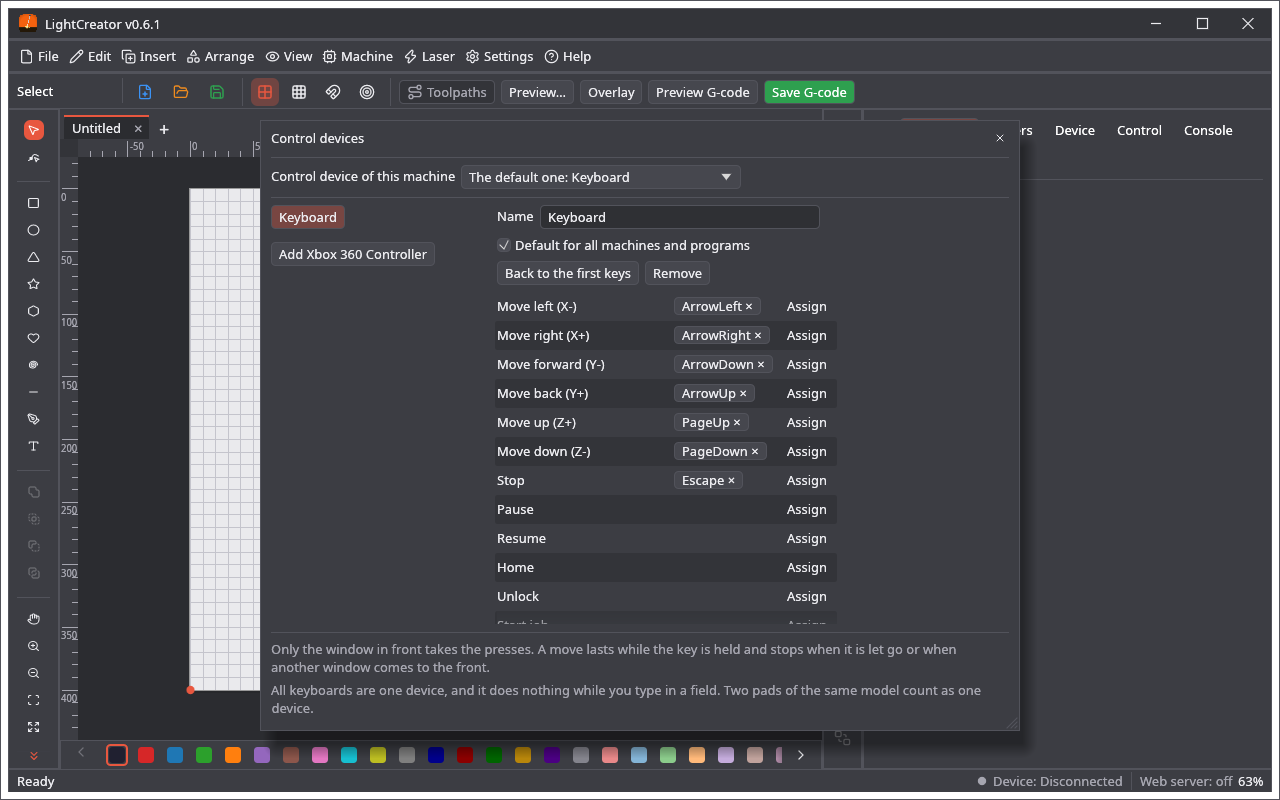
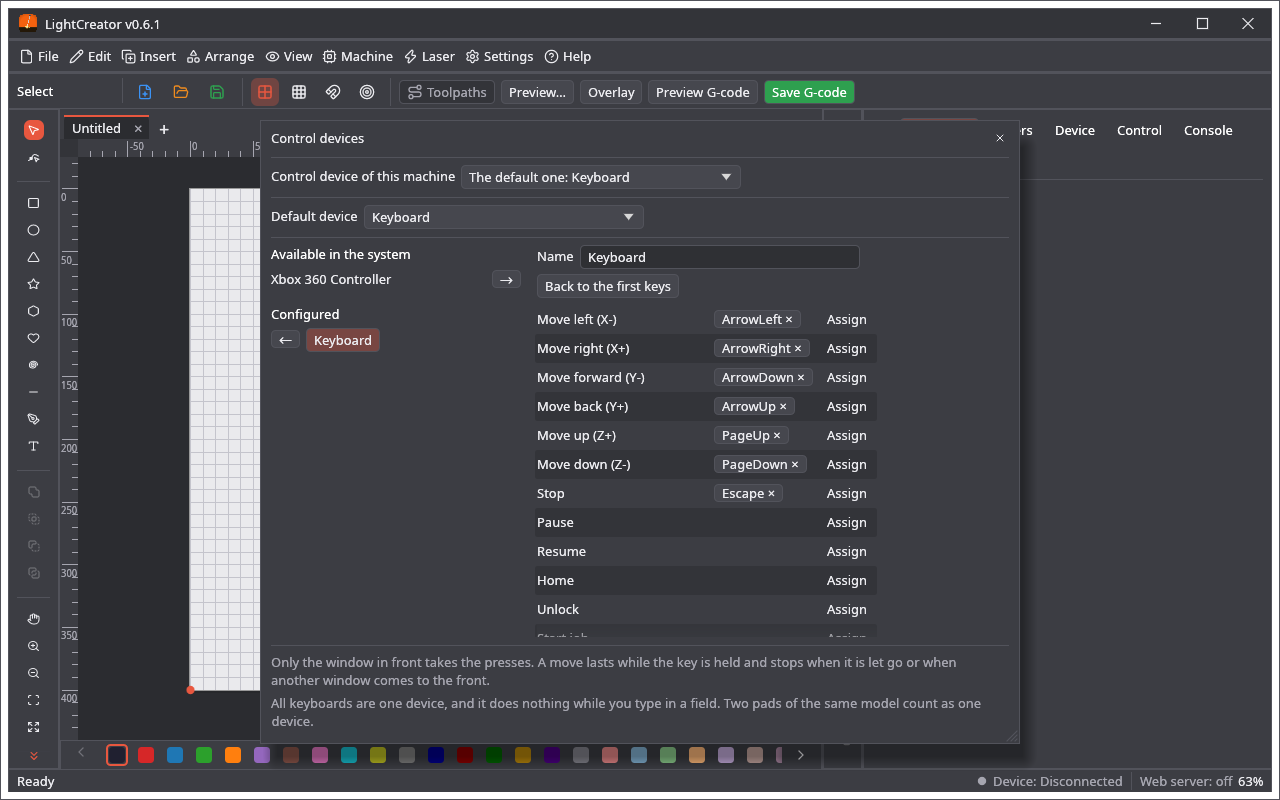
Shared camera page, cameras of the computer in the builds, copyable messages; pin base v1.69.5

Changed region(s): [[0.1875, 0.25, 0.8125, 0.9688], [0.1875, 0.25, 0.3438, 0.4375]]

diff --git a/crates/lightcreator/src/device_ui.rs b/crates/lightcreator/src/device_ui.rs
@@ -757,126 +757,7 @@ impl App {
                             ui.end_row();
                         });
                     }
-                    CfgPage::Camera => {
-                        ui.label(RichText::new(tr("Cameras that watch the machine. The one that is ticked gives the live picture; ticking another switches the first off.")).color(theme::text_dim()));
-                        let mut remove = None;
-                        let mut toggle: Option<(usize, bool)> = None;
-                        let n = d.cameras.len();
-                        for i in 0..n {
-                            let active = d.active_camera == i;
-                            let c = &mut d.cameras[i];
-                            egui::Frame::group(ui.style()).show(ui, |ui| {
-                                ui.horizontal_wrapped(|ui| {
-                                    // The tick before the name switches this camera on (and the others off): it is the one in use.
-                                    let mut on = active && c.enabled;
-                                    if ui.checkbox(&mut on, "").on_hover_text(tr("Switch this camera on: it gives the live picture")).changed() {
-                                        toggle = Some((i, on));
-                                    }
-                                    ui.add(egui::TextEdit::singleline(&mut c.name).hint_text(tr("Camera name")).desired_width(150.0));
-                                    if crate::window_ui::delete_icon(ui, &tr("Delete this camera")).clicked() {
-                                        remove = Some(i);
-                                    }
-                                });
-                                ui.horizontal_wrapped(|ui| {
-                                    let local = matches!(c.kind, lc_core::CameraKind::Local(_));
-                                    let mut want_local = local;
-                                    ui.radio_value(&mut want_local, false, tr("Address"));
-                                    ui.radio_value(&mut want_local, true, tr("Camera of this computer"));
-                                    if want_local != local {
-                                        c.kind = if want_local { lc_core::CameraKind::Local(0) } else { lc_core::CameraKind::Url(String::new()) };
-                                        if !want_local {
-                                            c.enabled = false;
-                                        }
-                                    }
-                                });
-                                match &mut c.kind {
-                                    lc_core::CameraKind::Url(u) => {
-                                        ui.add(egui::TextEdit::singleline(u).hint_text("http://raspberrypi.local:8080/stream.mjpg").desired_width(300.0)).on_hover_text(tr("Live picture of the machine: an MJPEG stream, a JPEG snapshot address (http or https), or a stream that ffmpeg reads (rtsp, udp, rtp, rtmp)."));
-                                        if !lc_core::camimg::valid_url(u) && !u.trim().is_empty() {
-                                            ui.label(RichText::new(tr("Not a camera address (http, https, rtsp, udp, rtp or rtmp).")).color(Color32::from_rgb(0xc0, 0x30, 0x30)));
-                                        }
-                                    }
-                                    lc_core::CameraKind::Local(i) => {
-                                        if crate::camera::SUPPORTED {
-                                            ui.horizontal(|ui| {
-                                                ui.label(tr("Camera number"));
-                                                ui.add(egui::DragValue::new(i).range(0..=15));
-                                            });
-                                        } else {
-                                            ui.label(RichText::new(tr("This build has no camera support. Build with: cargo run --release --features camera")).color(theme::text_dim()));
-                                        }
-                                    }
-                                }
-                                base_ui::camera_feed::stream_options_ui(ui, c);
-                                let testable = match &c.kind {
-                                    lc_core::CameraKind::Url(u) => lc_core::camimg::valid_url(u),
-                                    lc_core::CameraKind::Local(_) => crate::camera::SUPPORTED,
-                                };
-                                if ui.add_enabled(testable, egui::Button::new(tr("Test"))).on_hover_text(tr("Opens the picture of this camera as set here, without saving")).clicked() {
-                                    test_cam = Some(c.clone());
-                                }
-                                ui.horizontal(|ui| {
-                                    ui.label(tr("Camera rotation"));
-                                    for q in 0..4u8 {
-                                        ui.selectable_value(&mut c.rotation, q, format!("{}°", q as u32 * 90));
-                                    }
-                                });
-                                egui::CollapsingHeader::new(tr("Picture")).id_salt(("cam_img", i)).show(ui, |ui| {
-                                    egui::Grid::new(("cam_img_grid", i)).num_columns(2).spacing([12.0, 4.0]).show(ui, |ui| {
-                                        ui.label(tr("Brightness"));
-                                        ui.add(egui::Slider::new(&mut c.image.brightness, -100..=100));
-                                        ui.end_row();
-                                        ui.label(tr("Contrast"));
-                                        ui.add(egui::Slider::new(&mut c.image.contrast, 0..=100));
-                                        ui.end_row();
-                                        ui.label(tr("White balance"));
-                                        ui.horizontal(|ui| {
-                                            let mut auto = c.image.white_balance.is_none();
-                                            if ui.checkbox(&mut auto, tr("Auto")).changed() {
-                                                c.image.white_balance = if auto { None } else { Some(6500) };
-                                            }
-                                            if let Some(k) = &mut c.image.white_balance {
-                                                ui.add(egui::DragValue::new(k).range(2500..=10_000).speed(50.0).suffix(" K"));
-                                            }
-                                        });
-                                        ui.end_row();
-                                        ui.label(tr("Noise reduction"));
-                                        ui.add(egui::Slider::new(&mut c.image.denoise, 0.0..=0.95));
-                                        ui.end_row();
-                                        ui.label(tr("Format"));
-                                        ui.checkbox(&mut c.image.prefer_yuyv, tr("Prefer YUYV")).on_hover_text(tr("For a camera of this computer: ask for the uncompressed YUYV format where the system allows it."));
-                                        ui.end_row();
-                                    });
-                                });
-                                egui::CollapsingHeader::new(tr("Lens correction")).id_salt(("cam_lens", i)).show(ui, |ui| {
-                                    ui.label(RichText::new(tr("Coefficients of the lens distortion (radial k1–k3, tangential p1, p2) for coordinates measured from the centre in units of the longer side of the picture. All 0 = no correction. Entered by hand: there is no automatic calibration.")).color(theme::text_dim()));
-                                    ui.horizontal_wrapped(|ui| {
-                                        for (name, v) in [("k1", &mut c.lens.k1), ("k2", &mut c.lens.k2), ("k3", &mut c.lens.k3), ("p1", &mut c.lens.p1), ("p2", &mut c.lens.p2)] {
-                                            ui.label(name);
-                                            ui.add(egui::DragValue::new(v).speed(0.001).range(-5.0..=5.0).max_decimals(4));
-                                        }
-                                        if ui.small_button(tr("Reset")).clicked() {
-                                            c.lens = lc_core::Lens::default();
-                                        }
-                                    });
-                                });
-                            });
-                        }
-                        if let Some((i, on)) = toggle {
-                            if on {
-                                d.activate_camera(i);
-                            } else if let Some(c) = d.cameras.get_mut(i) {
-                                c.enabled = false;
-                            }
-                        }
-                        if let Some(i) = remove {
-                            d.cameras.remove(i);
-                            d.active_camera = d.active_camera.min(d.cameras.len().saturating_sub(1));
-                        }
-                        if d.cameras.len() < 8 && ui.button(tr("Add a camera")).clicked() {
-                            add_camera(d);
-                        }
-                    }
+                    CfgPage::Camera => base_ui::camera_feed::camera_page(ui, &mut d.cameras, &mut d.active_camera, &mut test_cam),
                     CfgPage::Rotary => {
                         let grbl = d.dialect().is_grbl();
                         ui.checkbox(&mut d.rotary.enabled, tr("A rotary attachment is connected"));

diff --git a/crates/lightcreator/src/cam_test_ui.rs b/crates/lightcreator/src/cam_test_ui.rs
@@ -1,74 +1,8 @@
-//! The "Test" button of a camera in the device settings: opens its stream in a small window, with the rotation, picture
-//! settings and lens correction of that camera as they are being edited, without changing the saved device.
+//! The "Test" button of a camera in the device settings: the window is the shared one.
 use crate::app::App;
-use crate::camera::{self, rotate_rgb};
-use crate::camera_stream::{self, Msg};
-use crate::i18n::{tr, trf};
-use eframe::egui::{self, Color32, RichText};
-use lc_core::{CameraKind, CameraSource};
-
-enum Source {
-    Url(camera_stream::StreamWorker),
-    Local(camera::Worker),
-}
-
-pub struct CamTest {
-    cam: CameraSource,
-    src: Source,
-    tex: Option<egui::TextureHandle>,
-    err: String,
-}
-
-impl CamTest {
-    fn start(cam: CameraSource, ctx: &egui::Context) -> Option<CamTest> {
-        let src = match &cam.kind {
-            CameraKind::Url(u) if lc_core::camimg::valid_url(u) => Source::Url(camera_stream::spawn(u.trim().to_string(), ctx.clone())),
-            CameraKind::Local(i) if camera::SUPPORTED => Source::Local(camera::spawn(*i, cam.image.prefer_yuyv, ctx.clone())),
-            _ => return None,
-        };
-        Some(CamTest { cam, src, tex: None, err: String::new() })
-    }
-
-    /// Take the frames that have arrived and turn the newest into a texture.
-    fn poll(&mut self, ctx: &egui::Context) {
-        let mut latest = None;
-        match &self.src {
-            Source::Url(w) => {
-                while let Ok(m) = w.rx.try_recv() {
-                    match m {
-                        Msg::Frame(f) => {
-                            self.err.clear();
-                            latest = Some(f);
-                        }
-                        Msg::Error(e) => self.err = e,
-                    }
-                }
-            }
-            Source::Local(w) => {
-                while let Ok(m) = w.rx.try_recv() {
-                    match m {
-                        Ok(f) => {
-                            self.err.clear();
-                            latest = Some(f);
-                        }
-                        Err(e) => self.err = e,
-                    }
-                }
-            }
-        }
-        if let Some(f) = latest {
-            let (w, h) = (f.w as usize, f.h as usize);
-            let mut rgb = if self.cam.lens.is_none() { f.rgb } else { lc_core::camimg::undistort(&f.rgb, w, h, &self.cam.lens) };
-            lc_core::camimg::adjust(&mut rgb, w, h, &self.cam.image);
-            let (w, h, rgb) = rotate_rgb(&rgb, f.w, f.h, self.cam.rotation % 4);
-            let img = egui::ColorImage::from_rgb([w as usize, h as usize], &rgb);
-            match &mut self.tex {
-                Some(t) if t.size() == [w as usize, h as usize] => t.set(img, egui::TextureOptions::LINEAR),
-                _ => self.tex = Some(ctx.load_texture("camera-test", img, egui::TextureOptions::LINEAR)),
-            }
-        }
-    }
-}
+use base_ui::camera_feed::CamTest;
+use eframe::egui;
+use lc_core::CameraSource;
 
 impl App {
     /// Open (or restart) the test window for `cam`. Does nothing for a camera that cannot be opened.
@@ -77,31 +11,7 @@ impl App {
     }
 
     pub fn cam_test_window(&mut self, ctx: &egui::Context) {
-        let Some(mut t) = self.cam_test.take() else { return };
-        t.poll(ctx);
-        ctx.request_repaint_after(std::time::Duration::from_millis(100));
-        let mut open = true;
-        let title = trf("Camera test: {}", &[&t.cam.name]);
-        crate::window_ui::popup(ctx, "cam_test_window", &title, [480.0, 380.0], &mut open, |ui| match &t.tex {
-            Some(tex) => {
-                let sz = tex.size_vec2();
-                let k = (ui.available_width() / sz.x).min((ui.available_height() - 30.0).max(100.0) / sz.y).min(2.0);
-                ui.image((tex.id(), sz * k));
-            }
-            None => {
-                ui.add_space(30.0);
-                ui.label(tr("Waiting for the picture…"));
-                ui.add_space(30.0);
-            }
-        });
-        if !t.err.is_empty() {
-            egui::Area::new(egui::Id::unique("cam_test_err")).anchor(egui::Align2::CENTER_BOTTOM, [0.0, -8.0]).show(ctx, |ui| {
-                ui.label(RichText::new(trf("Stream error: {}", &[&t.err.replace(match &t.cam.kind { CameraKind::Url(u) => u.as_str(), _ => "-" }, "…")])).color(Color32::from_rgb(0xc0, 0x30, 0x30)));
-            });
-        }
-        if open {
-            self.cam_test = Some(t);
-        }
+        CamTest::window(ctx, &mut self.cam_test);
     }
 }
 
@@ -116,8 +26,5 @@ mod tests {
         assert!(CamTest::start(CameraSource::url("x", "rtsp://127.0.0.1:9/x", 0), &ctx).is_some(), "an RTSP stream is tried (through ffmpeg)");
         assert!(CamTest::start(CameraSource::url("x", "", 0), &ctx).is_none());
         assert!(CamTest::start(CameraSource::url("x", "http://127.0.0.1:9/none", 0), &ctx).is_some());
-        let mut local = CameraSource::url("x", "", 0);
-        local.kind = CameraKind::Local(0);
-        assert_eq!(CamTest::start(local, &ctx).is_some(), camera::SUPPORTED);
     }
 }

diff --git a/crates/lightcreator/src/screenshots.rs b/crates/lightcreator/src/screenshots.rs
@@ -1623,6 +1623,41 @@ fn a_key_of_the_control_device_goes_to_the_machine_and_not_to_the_editor() {
     assert!(x(&mut h) < start, "no machine: the editor has it");
 }
 
+/// What is pasted into the address of a camera lands there: Cmd+V comes as the key and as the text, and the key must not paste shapes.
+#[test]
+fn an_address_can_be_pasted_into_the_field_of_a_camera() {
+    use eframe::egui::{self, Event, Key, Modifiers};
+    let mut h: Shot = Harness::builder().with_accessibility_check(false).with_size([1280.0, 800.0]).build_ui_state(
+        |ui, state: &mut Option<App>| {
+            let a = state.get_or_insert_with(|| App::build(ui.ctx(), None, false));
+            a.draw(ui);
+        },
+        None,
+    );
+    h.run_steps(2);
+    {
+        let a = h.state_mut().as_mut().unwrap();
+        let mut d = Device::default();
+        d.cameras = vec![lc_core::CameraSource::url("Cam", "", 0)];
+        a.profiles = vec![d];
+        a.enter_editor(0);
+        a.open_cfg_edit(0);
+        a.cfg.as_mut().unwrap().page = crate::device_ui::CfgPage::Camera;
+    }
+    h.run_steps(4);
+    h.get_all_by_role(egui::accesskit::Role::TextInput).last().unwrap().click();
+    h.run_steps(4);
+    let shapes = h.state_mut().as_mut().unwrap().doc.scene.shapes.len();
+    h.event(Event::Key { key: Key::V, physical_key: None, pressed: true, repeat: false, modifiers: Modifiers::COMMAND });
+    h.event(Event::Paste("http://10.10.0.18/cam_s9/stream".to_string()));
+    h.event(Event::Key { key: Key::V, physical_key: None, pressed: false, repeat: false, modifiers: Modifiers::COMMAND });
+    h.run_steps(4);
+    let a = h.state_mut().as_mut().unwrap();
+    assert_eq!(a.doc.scene.shapes.len(), shapes, "no shape is pasted");
+    let cam = &a.cfg.as_ref().unwrap().draft.cameras[0];
+    assert_eq!(cam.kind, lc_core::CameraKind::Url("http://10.10.0.18/cam_s9/stream".to_string()));
+}
+
 #[test]
 fn the_fonts_draw_every_symbol_of_the_program() {
     base_ui::tool_check::check_symbols(&std::path::Path::new(env!("CARGO_MANIFEST_DIR")).join("src"));

diff --git a/crates/lightcreator/src/app.rs b/crates/lightcreator/src/app.rs
@@ -186,7 +186,7 @@ pub struct App {
     pub show_stream: bool,
     pub ser2net: Option<crate::ser2net_ui::Ser2NetDlg>,
     pub print: Option<crate::print_ui::PrintDlg>,
-    pub cam_test: Option<crate::cam_test_ui::CamTest>,
+    pub cam_test: Option<base_ui::camera_feed::CamTest>,
     pub stream_mode: crate::stream_ui::StreamMode,
     pub tab_seen: bool,
     /// Rotation the current stream texture was made with.
@@ -1410,7 +1410,9 @@ impl App {
 
     fn do_app_act(&mut self, ctx: &egui::Context, a: Act) {
         if let Some(s) = a.std() {
-            s.run(self);
+            if !base_ui::menu::goes_to_text_field(ctx, s) {
+                s.run(self);
+            }
             return;
         }
         match a {
@@ -1591,7 +1593,7 @@ impl App {
 
     fn status_bar(&mut self, ui: &mut egui::Ui) {
         ui.horizontal_centered(|ui| {
-            ui.label(&self.status);
+            base_ui::widgets::message(ui, self.status.as_str());
             ui.with_layout(egui::Layout::right_to_left(egui::Align::Center), |ui| {
                 base_ui::editor::zoom_and_cursor(self, ui);
                 let web = if self.api.server.is_some() { (trf("Web server: on, port {}", &[&self.api.server.as_ref().map(|s| s.addr.port()).unwrap_or(0)]), Color32::from_rgb(0x2e, 0xa0, 0x4f)) } else if self.api_on { (tr("Web server: error").to_string(), Color32::from_rgb(0xc0, 0x30, 0x30)) } else { (tr("Web server: off").to_string(), theme::text_dim()) };

diff --git a/docs/wiki/Urzadzenia-i-sterowniki.md b/docs/wiki/Urzadzenia-i-sterowniki.md
@@ -128,3 +128,7 @@ Nieobsługiwane: automatyczna kalibracja obiektywu (planszy ChArUco, znaczniki, 
 * Pod obrazem widoku kamery: **Zrób zdjęcie** (Take a photo; JPEG), **Nagraj wideo** (Record video; w **Formacie wideo** wybranym wyżej; **Zatrzymaj nagrywanie** je kończy, a linia obok liczy sekundy) i **Poklatkowe** (Time-lapse): **Co** N sekund albo **Po każdej warstwie** (zdjęcie, gdy zaczyna się następna warstwa zadania i gdy zadanie się kończy; wymaga zadania wysłanego z programu na laser przyciskiem Start), uruchamiane przyciskiem **Uruchom poklatkowe** i kończone **Zatrzymaj poklatkowe**.
 * **Gdzie trafiają pliki.** Domyślnie do folderu `camera` **obok pliku projektu**. Gdy ten folder już jest (z wcześniejszej sesji), zamiast niego powstaje pierwszy wolny `camera00`, `camera01`…, i program używa go do końca działania. Nazwy plików zaczynają się od nazwy projektu: `box-photo-0001.jpg`, `box-video-0001.mp4` (albo `.avi`), a poklatkowe dostaje własny folder (`box-timelapse-0001`) z `box-frame-00001.jpg` albo `box-layer-00001.jpg`. Projekt, który nigdy nie był zapisany, nie ma folderu: jego pliki trafiają do folderu `camera` wspólnego folderu danych, bez nazwy z przodu. **Folder** pod przyciskami pokazuje, gdzie trafi następny plik; **Wybierz folder…** (Choose the folder…) ustawia zamiast tego jeden folder na wszystko (pamiętany dla wszystkich programów).
 * Nagrywanie trwa, gdy widok kamery jest zamknięty.
+
+## macOS: „No route to host”
+
+macOS nie dopuszcza programów do sieci lokalnej, dopóki ich nie zezwolisz, a nowo zbudowany lub zaktualizowany program może wymagać ponownej zgody. Jeśli sterownika albo kamery w sieci nie da się osiągnąć, a komunikat mówi *No route to host*, otwórz **Ustawienia systemowe → Prywatność i ochrona → Sieć lokalna** i włącz program (gdy uruchamiasz go z terminala: terminal). Jeśli jest już włączony, wyłącz go i włącz ponownie, a potem uruchom program od nowa.

diff --git a/docs/wiki/Devices-and-Controllers.md b/docs/wiki/Devices-and-Controllers.md
@@ -128,3 +128,7 @@ Not supported: automatic lens calibration (ChArUco boards, markers or dot grids)
 * Under the picture of the camera view: **Take a photo** (a JPEG), **Record video** (in the **Video format** above; **Stop recording** ends it, and the line beside it counts the seconds) and the **Time-lapse**: **Every** N seconds, or **After each layer** (a picture when the next layer of the job begins and when the job ends; it needs a job sent to the laser from the program with Start), started with **Start time-lapse** and ended with **Stop time-lapse**.
 * **Where the files go.** By default into a folder `camera` **next to the project file**. When that folder is there already (from an earlier session), the first free `camera00`, `camera01`… is made instead, and the program keeps using that one for the rest of the run. The names of the files start with the name of the project: `box-photo-0001.jpg`, `box-video-0001.mp4` (or `.avi`), and a time-lapse gets a folder of its own (`box-timelapse-0001`) with `box-frame-00001.jpg` or `box-layer-00001.jpg`. A project that has never been saved has no folder: its files go to the folder `camera` of the shared data folder, without a name in front. **Folder** under the buttons shows where the next file goes; **Choose the folder…** sets one folder for everything instead (kept for all the programs).
 * A recording goes on while the camera view is closed.
+
+## macOS: "No route to host"
+
+macOS keeps programs off the local network until they are allowed, and a newly built or updated program may have to be allowed again. If a controller or camera on your network cannot be reached and the message says *No route to host*, open **System Settings → Privacy & Security → Local Network** and switch the program on (when you start it from a terminal: the terminal). If it is on already, switch it off and on, then start the program again.

diff --git a/docs/wiki/Urzadzenia-sterujace.md b/docs/wiki/Urzadzenia-sterujace.md
@@ -6,9 +6,11 @@ Maszyną można sterować padem USB albo klawiaturą. **Maszyna → Urządzenia 
 
 ## Urządzenia
 
-* **Dodaj klawiaturę** dodaje klawiaturę. Wszystkie klawiatury komputera to jedno urządzenie, bo system nie mówi oknu, która została naciśnięta.
-* **Dodaj** z nazwą pada dodaje podłączony pad. Każdy model pada to urządzenie z własnymi klawiszami; dwa pady tego samego modelu liczą się jako jedno.
-* **Domyślne dla wszystkich maszyn i programów** sprawia, że tego urządzenia używa każda maszyna bez własnego. Pierwsze dodane urządzenie staje się domyślne.
+Okno ma dwie listy. **Dostępne w systemie** pokazuje klawiaturę i podłączone pady, które nie są jeszcze ustawione, a **Skonfigurowane** te, które są. Strzałka przenosi urządzenie z jednej listy na drugą. Urządzenie przeniesione z powrotem zachowuje klawisze na wypadek ponownego dodania.
+
+* Wszystkie klawiatury komputera to jedno urządzenie, bo system nie mówi oknu, która została naciśnięta.
+* Każdy model pada to urządzenie z własnymi klawiszami; dwa pady tego samego modelu liczą się jako jedno.
+* **Domyślne urządzenie** wybiera to, którego używają wszystkie maszyny i programy, o ile maszyna nie ma własnego, albo **Brak domyślnego urządzenia**. Pierwsze skonfigurowane urządzenie staje się domyślne.
 
 Urządzenia i wybór domyślnego są wspólne dla LightCreatora, MillCreatora i PenCreatora. Zmiana w jednym programie dociera do pozostałych w ciągu sekundy.
 

diff --git a/VERSIONS.md b/VERSIONS.md
@@ -7,6 +7,10 @@ Each release gets the next version number and a branch with the same name. Newes
 * **USB keyboards and pads:** **Machine → Control devices** connects a keyboard and any number of pads, each with its own keys for the moves, Stop, Pause, Home and the air and a low-power beam while a key is held. A machine can have its own device; otherwise it uses the default one. The devices are common to LightCreator, MillCreator and PenCreator and are kept in the backup. Only the window in front takes the presses, and a move lasts while the key is held.
 * **New colour schemes:** Superman, Batman, and Joker in a dark and a light version.
 * No more compiler warnings when building.
+* **Cameras:** the camera of the computer now works in the released programs (it was left out of the builds, so it said this version cannot use it); macOS asks for the permission.
+* **Messages can be copied:** select the text of a message or the status line with the mouse, or use **Copy** on the right button.
+* **macOS:** when the system blocks a controller or a camera on the local network, the message says where to allow the program (*Privacy & Security → Local Network*).
+* **Edit → Copy and Paste** of the menu work in a text field; they copied and pasted shapes of the drawing.
 
 ## v0.6.0
 
